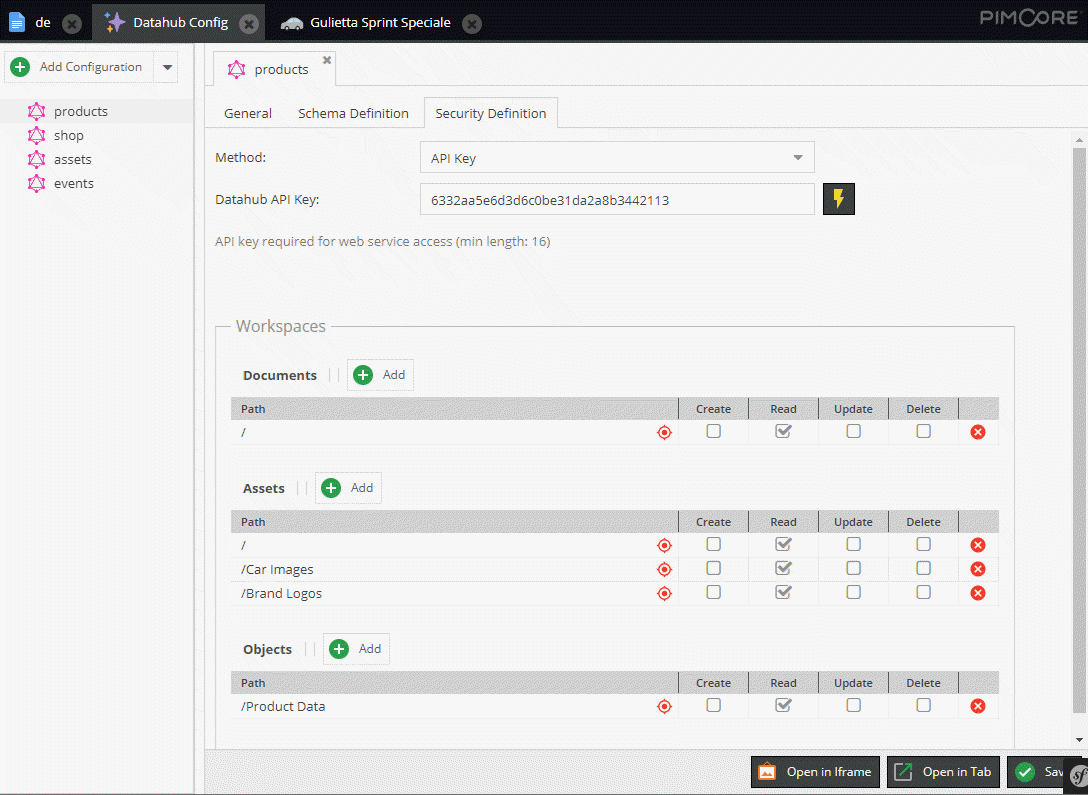
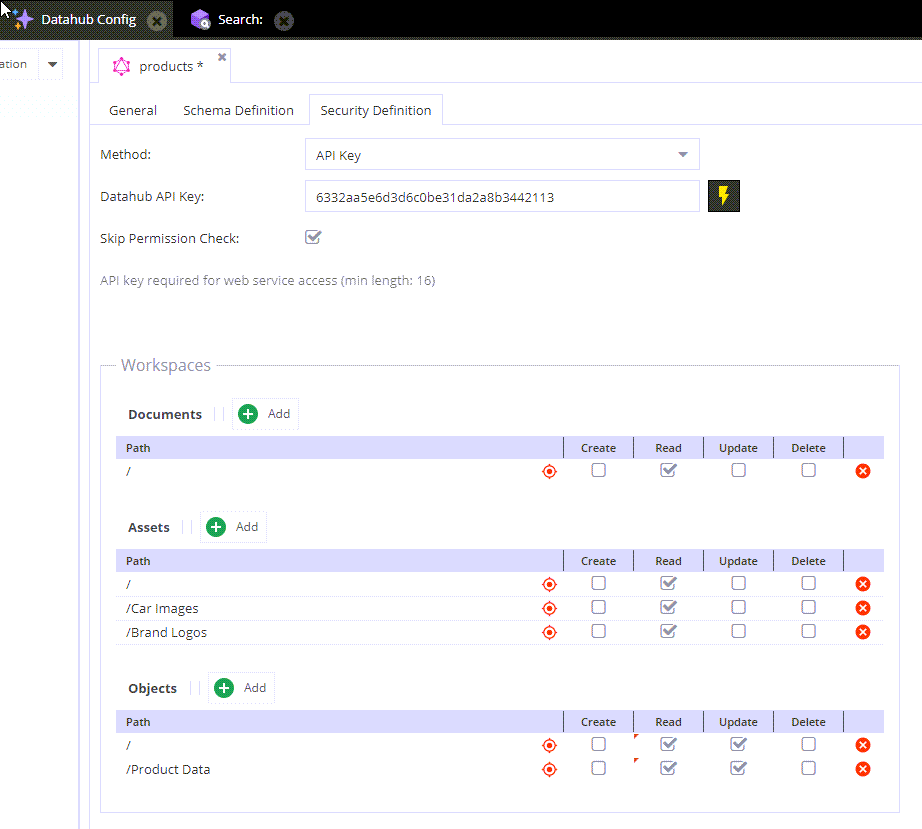
Refactor permission check

diff --git a/src/Resources/public/js/configItem.js b/src/Resources/public/js/configItem.js
@@ -196,6 +196,13 @@ pimcore.plugin.datahub.configItem = Class.create(pimcore.element.abstract, {
             minLength: 16
         });
 
+        var skipPermissionCheck = new Ext.form.Checkbox({
+            fieldLabel: t('plugin_pimcore_datahub_skip_permission_check'),
+            labelWidth: 200,
+            name: "skipPermissionCheck",
+            value: this.data.security ? this.data.security.skipPermissionCheck : ""
+        });
+
         this.securityForm = new Ext.form.FormPanel({
             bodyStyle: "padding:10px;",
             autoScroll: true,
@@ -219,7 +226,8 @@ pimcore.plugin.datahub.configItem = Class.create(pimcore.element.abstract, {
                     xtype: "fieldcontainer",
                     layout: 'hbox',
 
-                    items: [apikeyField,
+                    items: [
+                        apikeyField,
                         {
                             xtype: "button",
                             width: 32,
@@ -231,6 +239,7 @@ pimcore.plugin.datahub.configItem = Class.create(pimcore.element.abstract, {
                         }
                     ]
                 },
+                skipPermissionCheck,
                 {
                     xtype: 'displayfield',
                     hideLabel: true,

diff --git a/src/GraphQL/Mutation/MutationType.php b/src/GraphQL/Mutation/MutationType.php
@@ -214,7 +214,7 @@ class MutationType extends ObjectType
 
                         /** @var $configuration Configuration */
                         $configuration = $context['configuration'];
-                        if (!WorkspaceHelper::isAllowed($parent, $configuration, "create") && !$me->omitPermissionCheck) {
+                        if (!$me->omitPermissionCheck && !WorkspaceHelper::checkPermission($parent, "create")) {
                             return [
                                 "success" => false,
                                 "message" => "not allowed to create object " . $entity
@@ -328,7 +328,7 @@ class MutationType extends ObjectType
                             $className = 'Pimcore\\Model\\DataObject\\' . ucfirst($entity);
                             $object = $className::getById($id);
 
-                            if (!WorkspaceHelper::isAllowed($object, $configuration, "delete") && !$me->omitPermissionCheck) {
+                            if (!$me->omitPermissionCheck && !WorkspaceHelper::checkPermission($object, "delete") ) {
                                 return [
                                     "success" => false,
                                     "message" => "permission denied."
@@ -406,7 +406,7 @@ class MutationType extends ObjectType
                     $object = $className::getById($id);
                 }
 
-                if (!WorkspaceHelper::isAllowed($object, $configuration, "update") && !$omitPermissionCheck) {
+                if (!$omitPermissionCheck && !WorkspaceHelper::checkPermission($object, "update")) {
                     return [
                         "success" => false,
                         "message" => "permission denied."
@@ -512,9 +512,7 @@ class MutationType extends ObjectType
                         ];
                     }
 
-                    /** @var $configuration Configuration */
-                    $configuration = $context['configuration'];
-                    if (!WorkspaceHelper::isAllowed($parent, $configuration, "create") && !$omitPermissionCheck) {
+                    if (!$omitPermissionCheck && !WorkspaceHelper::checkPermission($parent, "create")) {
                         return [
                             "success" => false,
                             "message" => "not allowed to create asset"
@@ -706,9 +704,7 @@ class MutationType extends ObjectType
                 ];
             }
 
-            /** @var $configuration Configuration */
-            $configuration = $context['configuration'];
-            if (!WorkspaceHelper::isAllowed($parent, $configuration, "create") && !$me->omitPermissionCheck) {
+            if (!$me->omitPermissionCheck && !WorkspaceHelper::checkPermission($parent, "create") ) {
                 return [
                     "success" => false,
                     "message" => "not allowed to create " . $elementType . "folder "
@@ -795,7 +791,7 @@ class MutationType extends ObjectType
                             $element = \Pimcore\Model\DataObject\Folder::getById($id);
                         }
 
-                        if (!WorkspaceHelper::isAllowed($element, $configuration, "update") && !$omitPermissionCheck) {
+                        if (!$omitPermissionCheck && !WorkspaceHelper::checkPermission($element, "update") ) {
                             return [
                                 "success" => false,
                                 "message" => "permission denied."
@@ -882,7 +878,7 @@ class MutationType extends ObjectType
                             $element = DataObject::getById($id);
                         }
 
-                        if (!WorkspaceHelper::isAllowed($element, $configuration, "delete") && !$omitPermissionCheck) {
+                        if (!$omitPermissionCheck && !WorkspaceHelper::checkPermission($element, "delete")) {
                             return [
                                 "success" => false,
                                 "message" => "delete " . $type . " permission denied."
@@ -958,7 +954,7 @@ class MutationType extends ObjectType
                             $element = \Pimcore\Model\DataObject\Folder::getById($id);
                         }
 
-                        if (!WorkspaceHelper::isAllowed($element, $configuration, "delete") && !$omitPermissionCheck) {
+                        if (!$omitPermissionCheck && !WorkspaceHelper::checkPermission($element,  "delete")) {
                             return [
                                 "success" => false,
                                 "message" => "delete " . $type . " permission denied."
@@ -1006,9 +1002,7 @@ class MutationType extends ObjectType
                 ];
             }
 
-            /** @var $configuration Configuration */
-            $configuration = $context['configuration'];
-            if (!WorkspaceHelper::isAllowed($parent, $configuration, "update") && !$me->omitPermissionCheck) {
+            if (!$me->omitPermissionCheck && !WorkspaceHelper::checkPermission($parent,  "update") ) {
                 return [
                     "success" => false,
                     "message" => "not allowed to create " . $elementType . "folder "

diff --git a/src/GraphQL/Resolver/QueryType.php b/src/GraphQL/Resolver/QueryType.php
@@ -101,12 +101,8 @@ class QueryType
             return null;
         }
 
-        if (!WorkspaceHelper::isAllowed($element, $context['configuration'], 'read') && !$this->omitPermissionCheck) {
-            if (PimcoreDataHubBundle::getNotAllowedPolicy() == PimcoreDataHubBundle::NOT_ALLOWED_POLICY_EXCEPTION) {
-                throw new ClientSafeException('not allowed to view element ' . Service::getElementType($element));
-            } else {
-                return null;
-            }
+        if (!$this->omitPermissionCheck && !WorkspaceHelper::checkPermission($element, 'read')) {
+            return null;
         }
 
         $data = new ElementDescriptor();
@@ -180,10 +176,8 @@ class QueryType
             return null;
         }
 
-        if (!WorkspaceHelper::isAllowed($documentElement, $context['configuration'], 'read') && !$this->omitPermissionCheck ) {
-            if (PimcoreDataHubBundle::getNotAllowedPolicy() == PimcoreDataHubBundle::NOT_ALLOWED_POLICY_EXCEPTION) {
-                throw new ClientSafeException('not allowed to view document ' . $documentElement->getFullPath());
-            } else {
+        if (!$this->omitPermissionCheck) {
+            if (!WorkspaceHelper::checkPermission($documentElement, 'read') ) {
                 return null;
             }
         }
@@ -215,10 +209,8 @@ class QueryType
             return null;
         }
 
-        if (!WorkspaceHelper::isAllowed($assetElement, $context['configuration'], 'read') && !$this->omitPermissionCheck ) {
-            if (PimcoreDataHubBundle::getNotAllowedPolicy() == PimcoreDataHubBundle::NOT_ALLOWED_POLICY_EXCEPTION) {
-                throw new ClientSafeException('not allowed to view asset ' . $assetElement->getFullPath());
-            } else {
+        if (!$this->omitPermissionCheck) {
+            if (!WorkspaceHelper::checkPermission($assetElement, 'read')) {
                 return null;
             }
         }
@@ -278,8 +270,10 @@ class QueryType
         }
         $object = $objectList[0];
 
-        if (!WorkspaceHelper::isAllowed($object, $configuration, 'read') && !$this->omitPermissionCheck) {
-            throw new ClientSafeException('permission denied. check your workspace settings');
+        if (!$this->omitPermissionCheck) {
+            if (!WorkspaceHelper::checkPermission($object, 'read')) {
+                throw new ClientSafeException('permission denied. check your workspace settings');
+            }
         }
 
         $data = new ElementDescriptor($object);
@@ -304,7 +298,7 @@ class QueryType
         $object = AbstractObject::getById($objectId);
 
         $data = new ElementDescriptor();
-        if (WorkspaceHelper::isAllowed($object, $this->configuration, 'read') && !$this->omitPermissionCheck) {
+        if ($this->omitPermissionCheck || WorkspaceHelper::checkPermission($object, 'read')) {
             $fieldHelper = $this->getGraphQlService()->getObjectFieldHelper();
             $nodeData = $fieldHelper->extractData($data, $object, $args, $context, $resolveInfo);
         }

diff --git a/src/WorkspaceHelper.php b/src/WorkspaceHelper.php
@@ -16,6 +16,9 @@
 namespace Pimcore\Bundle\DataHubBundle;
 
 use Pimcore\Bundle\DataHubBundle\Configuration\Workspace\Dao;
+use Pimcore\Bundle\DataHubBundle\GraphQL\Exception\ClientSafeException;
+use Pimcore\Bundle\DataHubBundle\GraphQL\Exception\NotAllowedException;
+use Pimcore\Cache\Runtime;
 use Pimcore\Db;
 use Pimcore\Logger;
 use Pimcore\Model\DataObject\OwnerAwareFieldInterface;
@@ -217,7 +220,36 @@ class WorkspaceHelper
         $db->delete(Dao::TABLE_NAME_DATAOBJECT, ['configuration' => $config->getName()]);
     }
 
+
     /**
+     * @param ElementInterface|OwnerAwareFieldInterface $element
+     * @param string $type
+     *
+     * @return bool
+     *
+     * @throws NotAllowedException
+     */
+    public static function checkPermission($element, $type) {
+        $context = Runtime::get("datahub_context");
+        /** @var Configuration  $configuration */
+        $configuration = $context["configuration"];
+
+        if ($configuration->skipPermisssionCheck()) {
+            return true;
+        }
+
+        $isAllowed = self::isAllowed($element, $configuration, $type);
+        if (!$isAllowed && PimcoreDataHubBundle::getNotAllowedPolicy() === PimcoreDataHubBundle::NOT_ALLOWED_POLICY_EXCEPTION) {
+            $elementType = Service::getElementType($element);
+            throw new ClientSafeException($type . " access for " . $elementType . " " . $element->getFullPath() . " denied");
+        }
+
+        return $isAllowed;
+    }
+
+    /**
+     * @internal
+     *
      * @param ElementInterface|OwnerAwareFieldInterface $element
      * @param Configuration $configuration
      * @param string $type

diff --git a/src/GraphQL/Resolver/Video.php b/src/GraphQL/Resolver/Video.php
@@ -91,12 +91,8 @@ class Video
         if ($value instanceof \Pimcore\Model\DataObject\Data\Video) {
             $asset = $value->getPoster();
             if ($asset instanceof Image) {
-                if (!WorkspaceHelper::isAllowed($asset, $context['configuration'], 'read')) {
-                    if (PimcoreDataHubBundle::getNotAllowedPolicy() == PimcoreDataHubBundle::NOT_ALLOWED_POLICY_EXCEPTION) {
-                        throw new NotAllowedException('not allowed to view video');
-                    } else {
-                        return null;
-                    }
+                if (!WorkspaceHelper::checkPermission($asset, 'read')) {
+                    return null;
                 }
 
                 $data = new ElementDescriptor();
@@ -123,12 +119,8 @@ class Video
     {
         if ($value instanceof \Pimcore\Model\DataObject\Data\Video) {
             if ($value->getType() == "asset" && $value->getData() instanceof \Pimcore\Model\Asset\Video) {
-                if (!WorkspaceHelper::isAllowed($value->getData(), $context['configuration'], 'read')) {
-                    if (PimcoreDataHubBundle::getNotAllowedPolicy() == PimcoreDataHubBundle::NOT_ALLOWED_POLICY_EXCEPTION) {
-                        throw new NotAllowedException('not allowed to view video');
-                    } else {
-                        return null;
-                    }
+                if (!WorkspaceHelper::checkPermission($value->getData(),  'read')) {
+                    return null;
                 }
 
                 $data = new ElementDescriptor();

diff --git a/src/GraphQL/DataObjectQueryFieldConfigGenerator/Helper/Hotspotimage.php b/src/GraphQL/DataObjectQueryFieldConfigGenerator/Helper/Hotspotimage.php
@@ -87,17 +87,16 @@ class Hotspotimage
         if ($container instanceof \Pimcore\Model\DataObject\Data\Hotspotimage) {
             $image = $container->getImage();
             if ($image instanceof Asset) {
-                if (!WorkspaceHelper::isAllowed($image, $context['configuration'], 'read')) {
-                    throw new NotAllowedException('permission denied. check your workspace settings');
+                if (WorkspaceHelper::checkPermission($image, 'read')) {
+
+                    $data = new ElementDescriptor($image);
+                    $this->getGraphQlService()->extractData($data, $image, $args, $context, $resolveInfo);
+
+                    $data['crop'] = $container->getCrop();
+                    $data['hotspots'] = $container->getHotspots();
+                    $data['marker'] = $container->getMarker();
+                    return $data;
                 }
-
-                $data = new ElementDescriptor($image);
-                $this->getGraphQlService()->extractData($data, $image, $args, $context, $resolveInfo);
-
-                $data['crop'] = $container->getCrop();
-                $data['hotspots'] = $container->getHotspots();
-                $data['marker'] = $container->getMarker();
-                return $data;
             }
         }
 

diff --git a/src/GraphQL/Resolver/AssetType.php b/src/GraphQL/Resolver/AssetType.php
@@ -183,12 +183,8 @@ class AssetType
             $resolutions = [];
             $thumbnailName = $thumbnail->getConfig()->getName();
             $asset = $thumbnail->getAsset();
-            if (!WorkspaceHelper::isAllowed($asset, $context['configuration'], 'read')) {
-                if (PimcoreDataHubBundle::getNotAllowedPolicy() === PimcoreDataHubBundle::NOT_ALLOWED_POLICY_EXCEPTION) {
-                    throw new \Exception('not allowed to view asset');
-                } else {
-                    return null;
-                }
+            if (!WorkspaceHelper::checkPermission($asset, 'read')) {
+                return null;
             }
 
             $thumbnail = $asset->getThumbnail($thumbnailName, false);
@@ -240,12 +236,8 @@ class AssetType
 
         $asset = Asset::getById($value['id']);
 
-        if (!WorkspaceHelper::isAllowed($asset, $context['configuration'], 'read')) {
-            if (PimcoreDataHubBundle::getNotAllowedPolicy() === PimcoreDataHubBundle::NOT_ALLOWED_POLICY_EXCEPTION) {
-                throw new \Exception('not allowed to view asset');
-            } else {
-                return null;
-            }
+        if (!WorkspaceHelper::checkPermission($asset, 'read')) {
+            return null;
         }
 
         return $asset;

diff --git a/src/GraphQL/PropertyType/DocumentFolderType.php b/src/GraphQL/PropertyType/DocumentFolderType.php
@@ -73,12 +73,8 @@ class DocumentFolderType extends ObjectType
                             $element = $value->getData();
                         }
                         if ($element) {
-                            if (!WorkspaceHelper::isAllowed($element, $context['configuration'], 'read')) {
-                                if (PimcoreDataHubBundle::getNotAllowedPolicy() == PimcoreDataHubBundle::NOT_ALLOWED_POLICY_EXCEPTION) {
-                                    throw new NotAllowedException('not allowed to view document');
-                                } else {
-                                    return null;
-                                }
+                            if (!WorkspaceHelper::checkPermission($element, 'read')) {
+                                return null;
                             }
                             /** @var  $element Document\Folder */
                             $data = new ElementDescriptor($element);

diff --git a/src/GraphQL/PropertyType/AssetFolderType.php b/src/GraphQL/PropertyType/AssetFolderType.php
@@ -74,12 +74,8 @@ class AssetFolderType extends ObjectType
                             $element = $value->getData();
                         }
                         if ($element) {
-                            if (!WorkspaceHelper::isAllowed($element, $context['configuration'], 'read')) {
-                                if (PimcoreDataHubBundle::getNotAllowedPolicy() == PimcoreDataHubBundle::NOT_ALLOWED_POLICY_EXCEPTION) {
-                                    throw new NotAllowedException('not allowed to view document');
-                                } else {
-                                    return null;
-                                }
+                            if (!WorkspaceHelper::checkPermission($element,  'read')) {
+                                return null;
                             }
                             /** @var  $element Folder */
                             $data = new ElementDescriptor($element);

diff --git a/src/GraphQL/PropertyType/ObjectFolderType.php b/src/GraphQL/PropertyType/ObjectFolderType.php
@@ -74,12 +74,8 @@ class ObjectFolderType extends ObjectType
                             $element = $value->getData();
                         }
                         if ($element) {
-                            if (!WorkspaceHelper::isAllowed($element, $context['configuration'], 'read')) {
-                                if (PimcoreDataHubBundle::getNotAllowedPolicy() == PimcoreDataHubBundle::NOT_ALLOWED_POLICY_EXCEPTION) {
-                                    throw new NotAllowedException('not allowed to view document');
-                                } else {
-                                    return null;
-                                }
+                            if (!WorkspaceHelper::checkPermission($element, 'read')) {
+                                return null;
                             }
                             /** @var  $element Folder */
                             $data = new ElementDescriptor($element);

diff --git a/src/GraphQL/PropertyType/DocumentType.php b/src/GraphQL/PropertyType/DocumentType.php
@@ -73,12 +73,8 @@ class DocumentType extends ObjectType
                             $element = $value->getData();
                         }
                         if ($element) {
-                            if (!WorkspaceHelper::isAllowed($element, $context['configuration'], 'read')) {
-                                if (PimcoreDataHubBundle::getNotAllowedPolicy() == PimcoreDataHubBundle::NOT_ALLOWED_POLICY_EXCEPTION) {
-                                    throw new NotAllowedException('not allowed to view document');
-                                } else {
-                                    return null;
-                                }
+                            if (!WorkspaceHelper::checkPermission($element, 'read')) {
+                                return null;
                             }
                             /** @var  $element Document */
                             $data = new ElementDescriptor($element);

diff --git a/src/GraphQL/PropertyType/AssetType.php b/src/GraphQL/PropertyType/AssetType.php
@@ -74,12 +74,8 @@ class AssetType extends ObjectType
                             }
 
                             if ($element) {
-                                if (!WorkspaceHelper::isAllowed($element, $context['configuration'], 'read')) {
-                                    if (PimcoreDataHubBundle::getNotAllowedPolicy() == PimcoreDataHubBundle::NOT_ALLOWED_POLICY_EXCEPTION) {
-                                        throw new NotAllowedException('not allowed to view object');
-                                    } else {
-                                        return null;
-                                    }
+                                if (!WorkspaceHelper::checkPermission($element,  'read')) {
+                                    return null;
                                 }
 
                                 $data = new ElementDescriptor($element);
